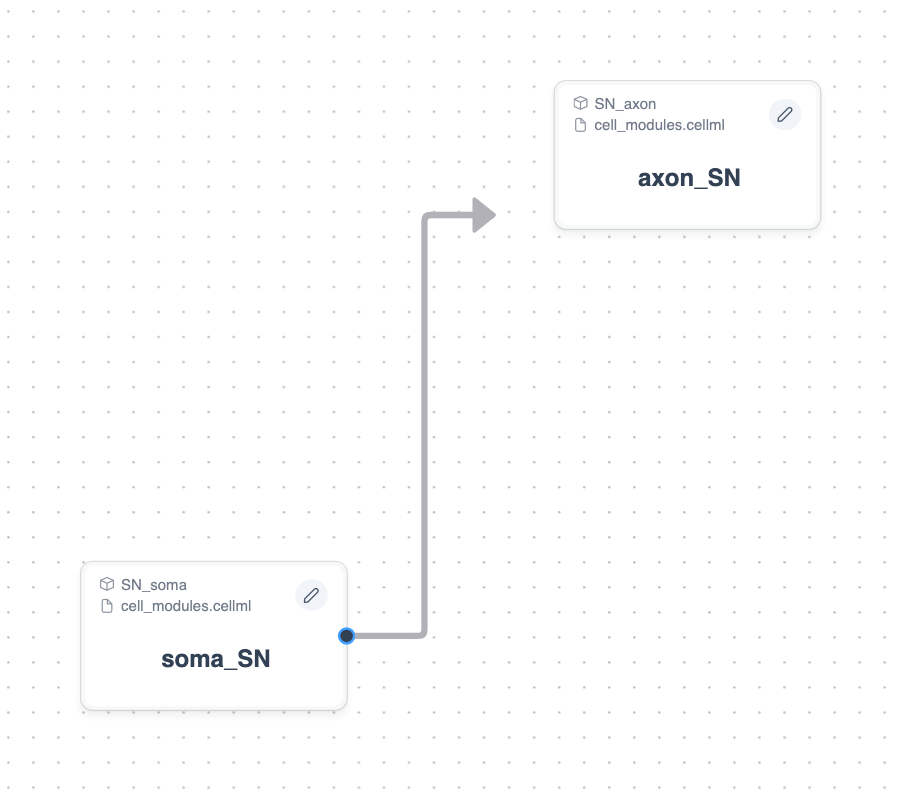
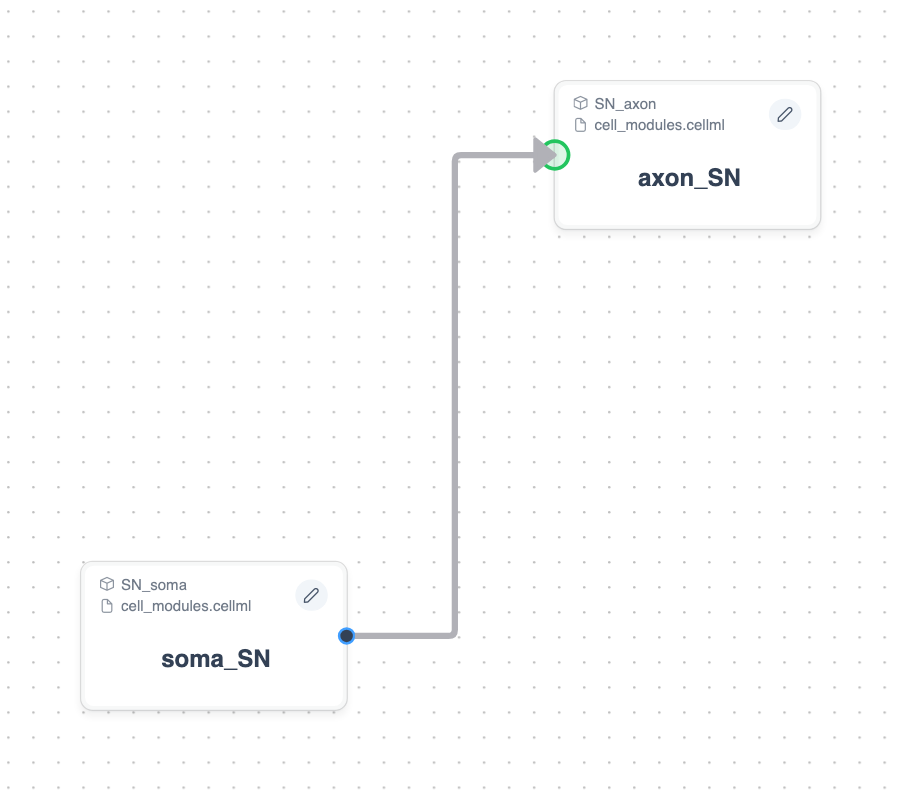
Show firing in the docs' runs and configure ports from connections
The screenshots now simulate a new workspace's 0–10 s at 0.001 s, so
the soma's action potentials (from about 6 s) appear. The quick start
sets up ports in the Connections dialog of each arrow, and its connect
shot ends on the target's ghost handle. The change-log page picks up
the edited v0.4.1 and v0.4.2 entries.

Changed region(s): [[0.4667, 0.1519, 0.6533, 0.8203]]

diff --git a/tests/playwright/docs_screenshots.py b/tests/playwright/docs_screenshots.py
@@ -22,7 +22,6 @@ from test_simulation_tab import (  # noqa: E402
     FEATURES_SETTINGS,
     OPT_IN_TO_ISOLATION,
     RESULTS_STORE,
-    SHORTEN_SIMULATION,
     SIMULATOR_READY,
     plot_variable,
     simulate_whole_model,
@@ -32,6 +31,12 @@ from test_workspace import centre, ghost_handle, node_by_name, wait_for_settled_
 IMAGES = os.path.abspath(os.path.join(os.path.dirname(__file__), "..", "..", "docs", "assets", "images"))
 VIEWPORT = {"width": 1440, "height": 900}
 LIGHT_THEME = "localStorage.setItem('phlynx-color-scheme', 'light')"
+# A new workspace's settings (BASELINE_SIMULATION_SETTINGS), as a reader following the quick start has. The fixture
+# predates saved settings, so it loads with the coarser ones older files get, between which the solver gives up.
+APP_DEFAULT_SIMULATION = (
+    "document.querySelector('#app').__vue_app__.config.globalProperties.$pinia._s.get('simulationSettings')"
+    ".setSimulationSettings({ startingPoint: 0, endingPoint: 10, pointInterval: 0.001, tolerance: 1e-7, maxSteps: 500 })"
+)
 SIMULATION_DONE = f"['done', 'error', 'blocked'].includes({RESULTS_STORE}.status)"
 
 
@@ -78,7 +83,8 @@ def open_simulation_tab(page):
 def run_whole_model(page):
     page.wait_for_function("window.crossOriginIsolated === true", timeout=APP_MOUNT_TIMEOUT)
     page.wait_for_function(SIMULATOR_READY, timeout=APP_MOUNT_TIMEOUT)
-    page.evaluate(SHORTEN_SIMULATION)
+    # The whole 0–10 s: the soma only starts firing at about 6 s.
+    page.evaluate(APP_DEFAULT_SIMULATION)
     open_simulation_tab(page)
     simulate_whole_model(page)
     page.wait_for_function(SIMULATION_DONE, timeout=120000)
@@ -154,7 +160,8 @@ def connect_port_nodes(page):
     end = centre(ghost_handle(page, "axon_SN", "left"))
     page.mouse.move(*start)
     page.mouse.down()
-    page.mouse.move(end[0] - 30, end[1] + 30, steps=15)
+    # Over the target's ghost handle, so it shows where the connection will land.
+    page.mouse.move(*end, steps=15)
     page.wait_for_timeout(300)
     save(page, "connect-port-nodes", clip=clip_around([node_by_name(page, "soma_SN"), node_by_name(page, "axon_SN")], margin=40))
     page.mouse.up()

diff --git a/docs/getting-started/quick-start-guide.md b/docs/getting-started/quick-start-guide.md
@@ -37,29 +37,14 @@ Connect the three instances as shown:
 
 ## Step 3: Configure Ports {#step-3}
 
-<GlossaryLink term="ports"/> say which variables a connection shares. For each instance:
+<GlossaryLink term="ports"/> say which variables a connection shares. Set them up from each connection:
 
-1. Click **Edit instance** (pencil icon) on the node to open the [Instance Editor](../reference/ui-overview.md#instance-editor), then open its **Ports** tab.
-2. Click **Add port** for each row below. Set **Type** (I = input, O = output), **Label** and **Variables**. Leave **Mode** on Basicport (one connection per port).
-3. Click **Save**.
+1. Double-click the **soma_SN → axon_SN** arrow to open the [Connections dialog](../reference/valid-port-configurations.md#connections-dialog). The source instance is on the left, the target on the right.
+2. Click **Add Port** on a side for each of that instance's rows below, then set **Type** (I = input, O = output), **Label** and **Variables**. Leave **Mode** on Basicport (one connection per port).
+3. Ports with the same label and compatible types link up automatically, joined by a line. Click **Done**.
+4. Repeat for the **axon_SN → var_SN** arrow. axon_SN's VI_port is already there; add the rest.
 
-Connected ports must share the same label. See [Port Logic](../reference/valid-port-configurations.md#port-types) for the type rules.
-
-![Instance Editor on the Ports tab](../assets/images/edit-module-detail.png){.align-center width="800px"}
-
-**var_SN**
-
-| Type | Label | Variables |
-| :--- | :--- | :--- |
-| I | membrane_voltage | V |
-| O | synaptic_NE | NE |
-
-**axon_SN**
-
-| Type | Label | Variables |
-| :--- | :--- | :--- |
-| I | VI_port | V_in, I |
-| O | membrane_voltage | V |
+![Connections dialog with soma_SN's and axon_SN's VI_port linked](../assets/images/connections-dialog.png){.align-center width="800px"}
 
 **soma_SN**
 
@@ -68,11 +53,29 @@ Connected ports must share the same label. See [Port Logic](../reference/valid-p
 | I | i_stim | I_in |
 | O | VI_port | V, I_out |
 
+**axon_SN**
+
+| Type | Label | Variables |
+| :--- | :--- | :--- |
+| I | VI_port | V_in, I |
+| O | membrane_voltage | V |
+
+**var_SN**
+
+| Type | Label | Variables |
+| :--- | :--- | :--- |
+| I | membrane_voltage | V |
+| O | synaptic_NE | NE |
+
+You can also edit an instance's ports on the **Ports** tab of the [Instance Editor](../reference/ui-overview.md#instance-editor). See [Port Logic](../reference/valid-port-configurations.md#port-types) for the type rules.
+
 ## Simulate
 
 1. Click **Simulation** (chart icon) on the right-hand rail. The scope switch should read **Whole model**.
 2. Click **Simulate the whole model** (play icon), or press F9 while the panel has focus.
 3. Click **Add a variable here** (plus icon) beside a plot name to choose what to plot, e.g. soma_SN's V.
+
+The soma starts firing at about 6 s, so keep the default run of 0–10 s.
 
 ![Simulation tab after a run](../assets/images/simulation-sidebar.png){.align-center width="550px"}
 

diff --git a/docs/reference/change-log.md b/docs/reference/change-log.md
@@ -4,10 +4,6 @@
 ## v0.4.2
 ###### Released on 2026-10-09
 
-#### Not Specified
-* Update vue3-math-editor to v0.3.3 by [@jmdowrick](https://github.com/jmdowrick) in [#650](https://github.com/physiomelinks/PhLynx/pull/650)
-
-
 #### New Features
 * Add SVG output for screenshots by [@hsorby](https://github.com/hsorby) in [#665](https://github.com/physiomelinks/PhLynx/pull/665)
 * Add multiport summary to math editor by [@jmdowrick](https://github.com/jmdowrick) in [#645](https://github.com/physiomelinks/PhLynx/pull/645)
@@ -40,7 +36,7 @@
 ## v0.4.1
 ###### Released on 2026-10-06
 
-#### Not Specified
+#### Maintenance Work
 * Update vue3-math-editor to v0.3.3 by [@jmdowrick](https://github.com/jmdowrick) in [#650](https://github.com/physiomelinks/PhLynx/pull/650)
 * Recognise OMEX flow snapshots from version 1.0.0 onwards by [@jmdowrick](https://github.com/jmdowrick) in [#643](https://github.com/physiomelinks/PhLynx/pull/643)
 
